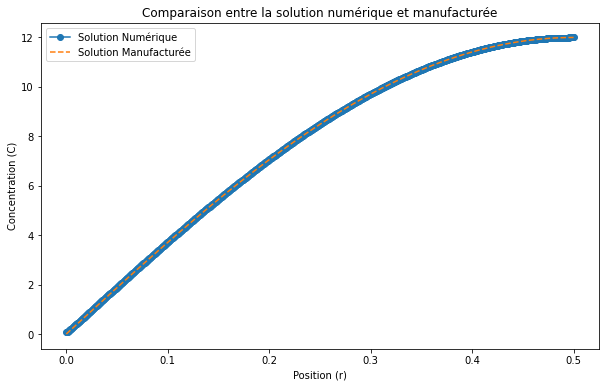
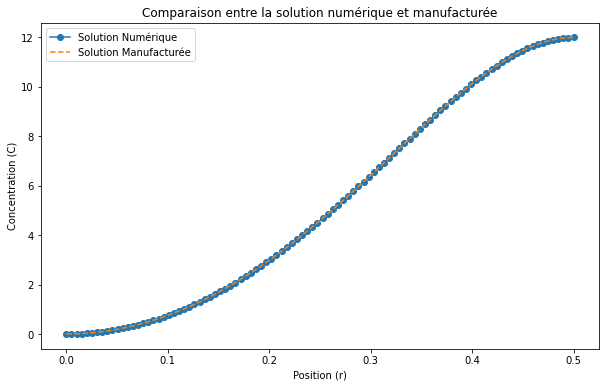
Convergence_ordre_2_espace
Convergence

diff --git a/devoir2/src/Devoir2MMS.py b/devoir2/src/Devoir2MMS.py
@@ -1,85 +1,58 @@
-'''
-##################################################
-## MMS 
-##################################################
-## Code to MEC8211
-##################################################
-## Authors:
-##     - Lucas BRAHIC
-##     - Pablo ELICES PAZ
-##     - Justin BELZILE
-## Date: 29/02/2024
-##################################################
-## ToDo:
-##     -
-##################################################
-'''
+# -*- coding: utf-8 -*-
+"""
+Created on Mon Mar  4 18:04:32 2024
+
+@author: lucas
+"""
 
 import numpy as np
 from numpy import linalg as LA
-from math import pi, exp
 import matplotlib.pyplot as plt
-# from sympy import symbols, diff, exp, sin, pi
 
-# r, t, R, Ce, Deff, k = symbols('r t R Ce Deff k')
-# C = exp(-t) * (r**2 - R**2) + Ce * sin(pi * r / (2 * R))
-
-# dC_dt = diff(C, t)
-
-# dC_dr = diff(C, r)
-# laplacian_C = 1/r * diff(r * dC_dr, r)
-
-# source_term = dC_dt - (Deff * laplacian_C - k * C)
-# dC_dt, laplacian_C, source_term.simplify()
-
-
-
-def manufactured_solution(r, t, R=0.5, Ce=12):
-    return np.exp(-t) * (r**2 - R**2) + Ce * np.sin((np.pi/2) * (r/R))
-
+def manufactured_solution(r, t):
+    Cs = 12.0
+    R = 0.5
+    return (Cs*np.sin(np.pi*r**2/(2*R**2)) + r**2*(-R + r)/(t + 1))
 
 def source_term(r, t):
-        R = 0.5
-        Ce = 12
-        Deff = 10E-10
-        k=4e-9
-        #Vérification que r ou t ne soient pas égaux à 0
-        #Si oui on remplace la valeur nulle par 1e-25
-        r = np.where(r < 1e-25, 1e-25, r)        
-        t = np.where(t < 1e-25, 1e-25, t)
-        kc = k * (exp(-t) * (r**2 - R**2) + Ce * np.sin((np.pi * r) / (2 * R)))
-        
-        return (-pi * Ce * Deff * np.cos(pi * r / (2 * R)) / (2 * R * r) +
-                pi**2 * Ce * Deff * np.sin(pi * r / (2 * R)) / (4 * R**2) -
-                4 * Deff * exp(-t) + R**2 * exp(-t) - r**2 * exp(-t) +kc)
-
+    Cs = 12.0
+    R = 0.5
+    De = 10e-10
+    k = 4e-9
+    kc = k*(Cs*np.sin(np.pi*r**2/(2*R**2)) + r**2*(-R + r)/(t + 1))
+    expression = -De*(np.pi*Cs*np.cos(np.pi*r**2/(2*R**2))/R**2 - np.pi**2*Cs*r**2*np.sin(np.pi*r**2/(2*R**2))/R**4 + 4*r/(t + 1) - 2*(R - r)/(t + 1)) - De*(np.pi*Cs*r*np.cos(np.pi*r**2/(2*R**2))/R**2 + r**2/(t + 1) + 2*r*(-R + r)/(t + 1))/r - r**2*(-R + r)/(t + 1)**2
+    return (expression + kc)
 
 
 def solve_MMS(n, dt, order, imax, tol, time, debug=False):
     '''
     Solves Fick's second law of diffusion using the finite difference method with addition of source term
+    
+    This function is exactly the same as in "devoir 1", but now we add a source term (-kC) and also the source term
+    from MMS (Manufactured Method Solution)
 
     Args:
         n (int): Number of discretization points.
         dt (float): Time interval.
         order (int): Order of the finite difference method (1 or 2).
-        imax (int, optional): Maximum number of iterations. Default is 100000.
-        tol (float, optional): Tolerance for the stopping criterion. Default is 1E-12.
+        imax (int, optional): Maximum number of iterations. 
+        tol (float, optional): Tolerance for the stopping criterion. 
         time(int): current time
         debug (bool, optional): Enable debug mode. Default is False.
 
     Returns:
         tuple: A tuple containing the simulation results.
+    
     '''
     # Geometry
     r0 = 0
     rf = 0.5
 
     # Constant variables
-    d_eff = 10E-10
+    d_eff = 10e-10
     # s = 8E-9
     c_e = 12.
-    k=4e-9
+    k=4e-9 
     # Position vector
     r = np.linspace(r0, rf, n)
     h = (rf -r0)/(n-1)
@@ -126,109 +99,78 @@ def solve_MMS(n, dt, order, imax, tol, time, debug=False):
 
     matrix = np.r_[ [bc_r0_vector], matrix, [bc_rn_vector]] # Add rows for bc
     matrix_inv = LA.inv(matrix)
-
-    if debug:
-        print('** system matrix ** ')
-        print('diagonal vectors: ')
-        print(bl_vector, a_vector,  br_vector)
-        print('matrix: ')
-        print(matrix)
-
-   
+ 
     c = np.zeros(n)
-    # Dircihlet bc
     c[n-1] =  c_e
 
     #********** MAIN LOOP **********
     c_pre = np.zeros(n)
     res = 1
     i =0
-    if debug:
-        print('** main loop **')
-        print('max number of iteration : ', imax)
-        
-    
-    while i <imax and abs(res) > tol:
-        
-        
-        if debug:
-            print(i)
-        s_current = source_term(r, time)
-        
-        rhs = c.copy()
-        for j in range(1, n-2):
-            rhs[j] = rhs[j] - (k*rhs[j])*dt            #ajout des termes sources 
-            rhs[j] += +s_current[j] * dt
-        rhs[0] = 0  
-        
-        c = np.matmul(matrix_inv, rhs)
-        res = LA.norm(c-c_pre)
+    while i < imax and abs(res) > tol:
+        s_current = source_term(r, time)  #Ici nous calculons le terme source pour r et le time spécifié
+        c_pre = c.copy()
 
-        if (i%1000 == 0) and debug:
-            print(i, res)
+        c[1:-1] = c[1:-1] - k*c[1:-1]*dt + s_current[1:-1]*dt
 
-        i += 1
+
+        c = np.linalg.solve(matrix, c)
+
+        res = LA.norm(c - c_pre)
+
+    if (i % 1000 == 0) and debug:
+        print(i, res)
+
+    i += 1
+
     if i == imax:
         print('    ***********')
         print('    Maximal number of iterations achived')
 
     return r, c
 
-#Time step
-dt = 1E5
-#Tolérance   
-tol = 1E-15
-#imax
-imax = 10000
-#nombre de points de grille
-n = 1500
-#ordre
-order = 2  
-
-#Choix du temps
-time = 10000000000000000
+# #Time step
+# dt = 1E5
+# #Tolérance   
+# tol = 1E-15
+# #imax
+# imax = 1e7
+# #nombre de points de grille
+# n = 100
+# #ordre
+# order = 2 
+# #Choix du temps
+# time = 1e10
 
 #Solver
-r1,c_num= solve_MMS(n, dt, order, imax, tol, time)
-c_man = manufactured_solution(r1, time)
-
-
-plt.figure(figsize=(10, 6))
-plt.plot(r1, c_num, label='Solution Numérique', marker='o')
-plt.plot(r1, c_man, label='Solution Manufacturée', linestyle='--')
-plt.xlabel('Position (r)')
-plt.ylabel('Concentration (C)')
-plt.title('Comparaison entre la solution numérique et manufacturée')
-plt.legend()
-plt.show()
-
-def calculate_errors(c_num, c_man,n, dt):
-    print("n :", n)
-    print("dt :", dt)
-    error_l1 = np.sum(np.abs(c_num - c_man)) / len(c_num)
-    print("L1", error_l1)
-    error_l2 = np.sqrt(np.sum((c_num - c_man)**2) / len(c_num))
+h=[]
+El2=[]
+n_cases = [10,20,50,80,100]
+for n in n_cases:
+    dt = 1E5
+    tol = 1e-15
+    imax = 1e7
+    order = 2
+    time = 1e10
+    dx=0.5/n
+    h.append(dx)
+    r1,c_num= solve_MMS(n, dt, order, imax, tol, time)
+    c_man = manufactured_solution(r1, time)
+    error_l2 = np.sqrt(np.sum((c_num - c_man)**2)/len(c_num))
+    El2.append(error_l2)
+    print("n :",n)
     print("L2", error_l2)
-    error_linf = np.max(np.abs(c_num - c_man))
-    print("Linfini", error_linf)
-    return error_l1, error_l2, error_linf
+    plt.figure(figsize=(10, 6))
+    plt.plot(r1, c_num, label='Solution Numérique', marker='o')
+    plt.plot(r1, c_man, label='Solution Manufacturée', linestyle='--')
+    plt.xlabel('Position (r)')
+    plt.ylabel('Concentration (C)')
+    plt.title('Comparaison entre la solution numérique et manufacturée')
+    plt.legend()
+    plt.show()
 
-def affiche_erreur(n_cases, order):
-    errors_l1, errors_l2, errors_linf = [], [], []
-    h_values, dt_values = [], []
-    for n in n_cases:
-        r, c_num = solve_MMS(n, 1e8, order, 10000, 1E-15, time)
-        c_man = manufactured_solution(r, 1)
-        errors = calculate_errors(c_num, c_man,n,1e5)
-        errors_l1.append(errors[0])
-        errors_l2.append(errors[1])
-        errors_linf.append(errors[2])
-        h_values.append(1/(n-1))
-    return(errors_l1,errors_l2,errors_linf,h_values)
 
-n_cases = [1000,1500,2000]
 
-El1,El2,Elinf,h=affiche_erreur(n_cases, order=2)
 
 
 def plot_convergence(error_values, h_values_ext, Order, error_name = 'L2') :
@@ -299,9 +241,92 @@ def plot_convergence(error_values, h_values_ext, Order, error_name = 'L2') :
 plot_convergence(El2, h, "2", error_name='L2')
 
 
+def plot_convergence_t(error_values, delta_t, Order, error_name = 'L2') :
+    """
+    Plots the convergence of the error with respect to the grid size.
 
+    Args:
+        error_values (list): List of error values.
+        h_values_ext (list): List of grid sizes.
+        order (int): The order of the convergence (1 or 2).
+        error_name (string): name of the error (L1, L2, Linf)
 
+    Returns:
+        None
+    """
+
+    coefficients = np.polyfit(np.log(delta_t[:3]), np.log(error_values[:3]), 1)
+    exponent = coefficients[0]
+
+    #fit_function_log = lambda x: exponent * x + coefficients[1]
+
+    #fit_function = lambda x: np.exp(fit_function_log(np.log(x)))
+
+    def fit_function_log(x):
+        return exponent * x + coefficients[1]
+
+    def fit_function(x):
+        return np.exp(fit_function_log(np.log(x)))
+
+    extrapolated_value = fit_function(delta_t[-1])
+
+    plt.figure(figsize=(8, 6))
+    plt.scatter(delta_t, error_values, marker='o',
+                color='b', label='Données numériques obtenues')
+    plt.plot(delta_t, fit_function(delta_t), linestyle='--',
+              color='r', label='Régression en loi de puissance')
+
+    plt.scatter(delta_t[-1], extrapolated_value, marker='x', color='g', label='Extrapolation')
+
+    plt.title('Convergence d\'ordre' + Order +
+              '\n de l\'erreur '+error_name+' en fonction de $Δt$',
+          fontsize=14, fontweight='bold', y=1.02)
+    # Le paramètre y règle la position verticale du titre
+
+    plt.xlabel('Taille de maille $h_{max}$ ou $Δx$ (m)',
+                fontsize=12, fontweight='bold')  # Remplacer "h" par "Δx"
+    plt.ylabel('Erreur '+error_name+' (mol/m³) ', fontsize=12, fontweight='bold')
+
+    plt.gca().spines['bottom'].set_linewidth(2)
+    plt.gca().spines['left'].set_linewidth(2)
+    plt.gca().spines['right'].set_linewidth(2)
+    plt.gca().spines['top'].set_linewidth(2)
+    plt.tick_params(width=2, which='both', direction='in', top=True, right=True, length=6)
+
+    #equation_text = f'$L_2 = {np.exp(coefficients[1]):.4f} \\times Δx^{{{exponent:.4f}}}$'
+    equation_text = f'$ {np.exp(coefficients[1]):.4f} \\times Δx^{{{exponent:.4f}}}$'
+    equation_text_obj = plt.text(0.05, 0.05, equation_text, fontsize=12,
+                                  transform=plt.gca().transAxes, color='k')
+
+    equation_text_obj.set_position((0.5, 0.4))
+
+    plt.xscale('log')
+    plt.yscale('log')
+    plt.grid(True)
+    plt.legend()
+    plt.show()
     
+El2=[]
+dt_cases = [1e3,1e4,1e5,1e6,1e7]
+for dt in dt_cases:
+    tol = 1e-15
+    imax = 1e7
+    order = 2
+    time = 1e10
+    n=200
+    r1,c_num= solve_MMS(n, dt, order, imax, tol, time)
+    c_man = manufactured_solution(r1, time)
+    error_l2 = np.sqrt(np.sum((c_num - c_man)**2)/len(c_num))
+    El2.append(error_l2)
+    print("n :",n)
+    print("L2", error_l2)
+    plt.figure(figsize=(10, 6))
+    plt.plot(r1, c_num, label='Solution Numérique', marker='o')
+    plt.plot(r1, c_man, label='Solution Manufacturée', linestyle='--')
+    plt.xlabel('Position (r)')
+    plt.ylabel('Concentration (C)')
+    plt.title('Comparaison entre la solution numérique et manufacturée')
+    plt.legend()
+    plt.show()
 
-
-
+plot_convergence_t(El2,dt_cases,"2", error_name='L2')

diff --git a/devoir1/src/devoir1.py b/devoir1/src/devoir1.py
@@ -19,8 +19,8 @@ import time
 import numpy as np
 from numpy import linalg as LA
 import matplotlib.pyplot as plt
-#import solve_FICK as solve_fick
-import untitled0 as solve_fick
+import solve_FICK as solve_fick
+# import untitled0 as solve_fick
 def plot_solutions(n_cases_ext, Order, file_name):
     '''
     Plots the solutions for different cases.
